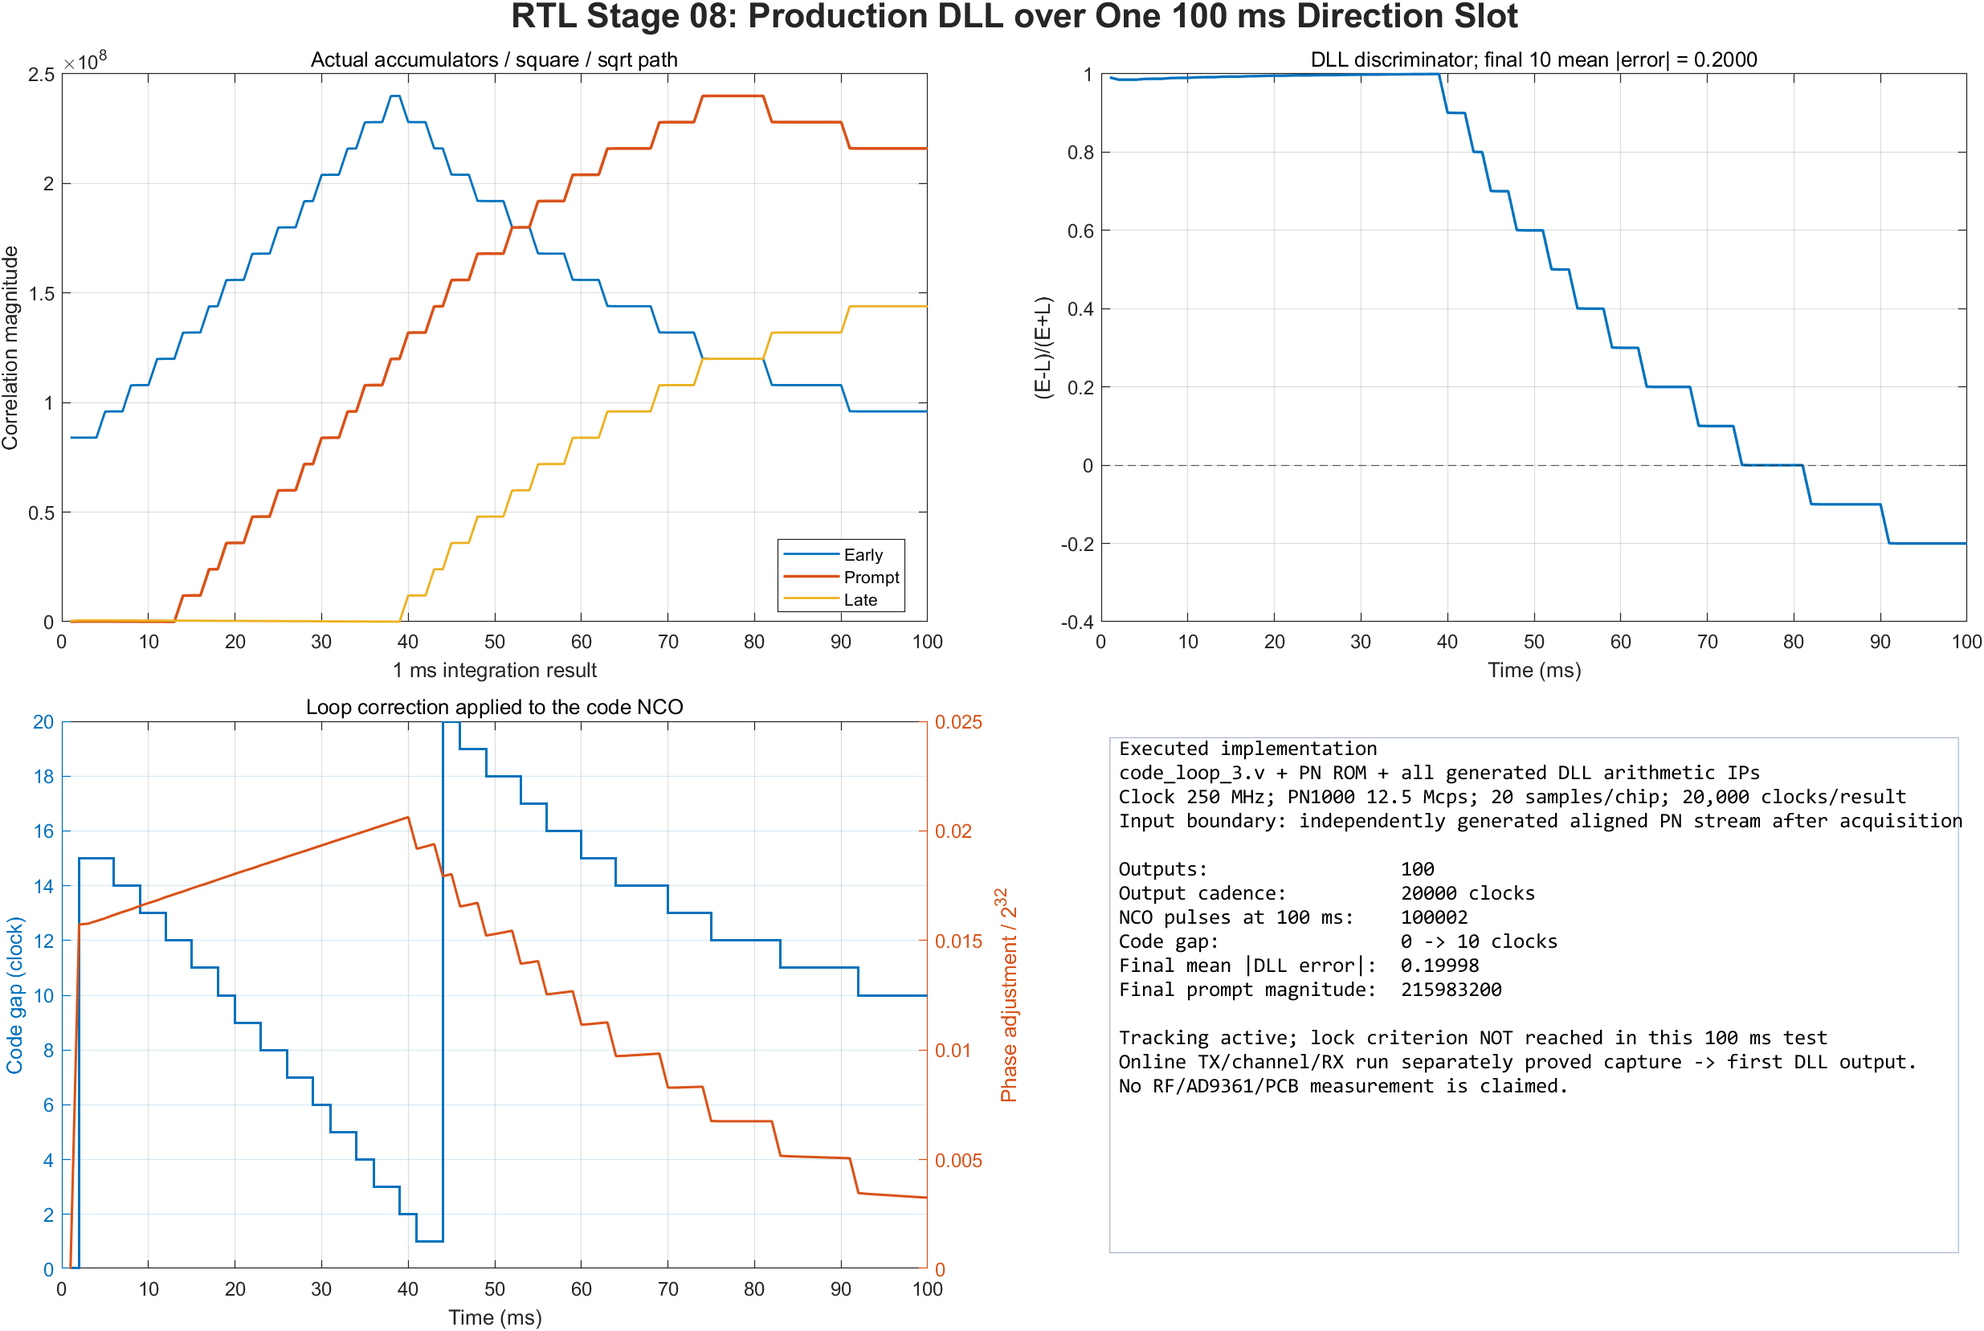
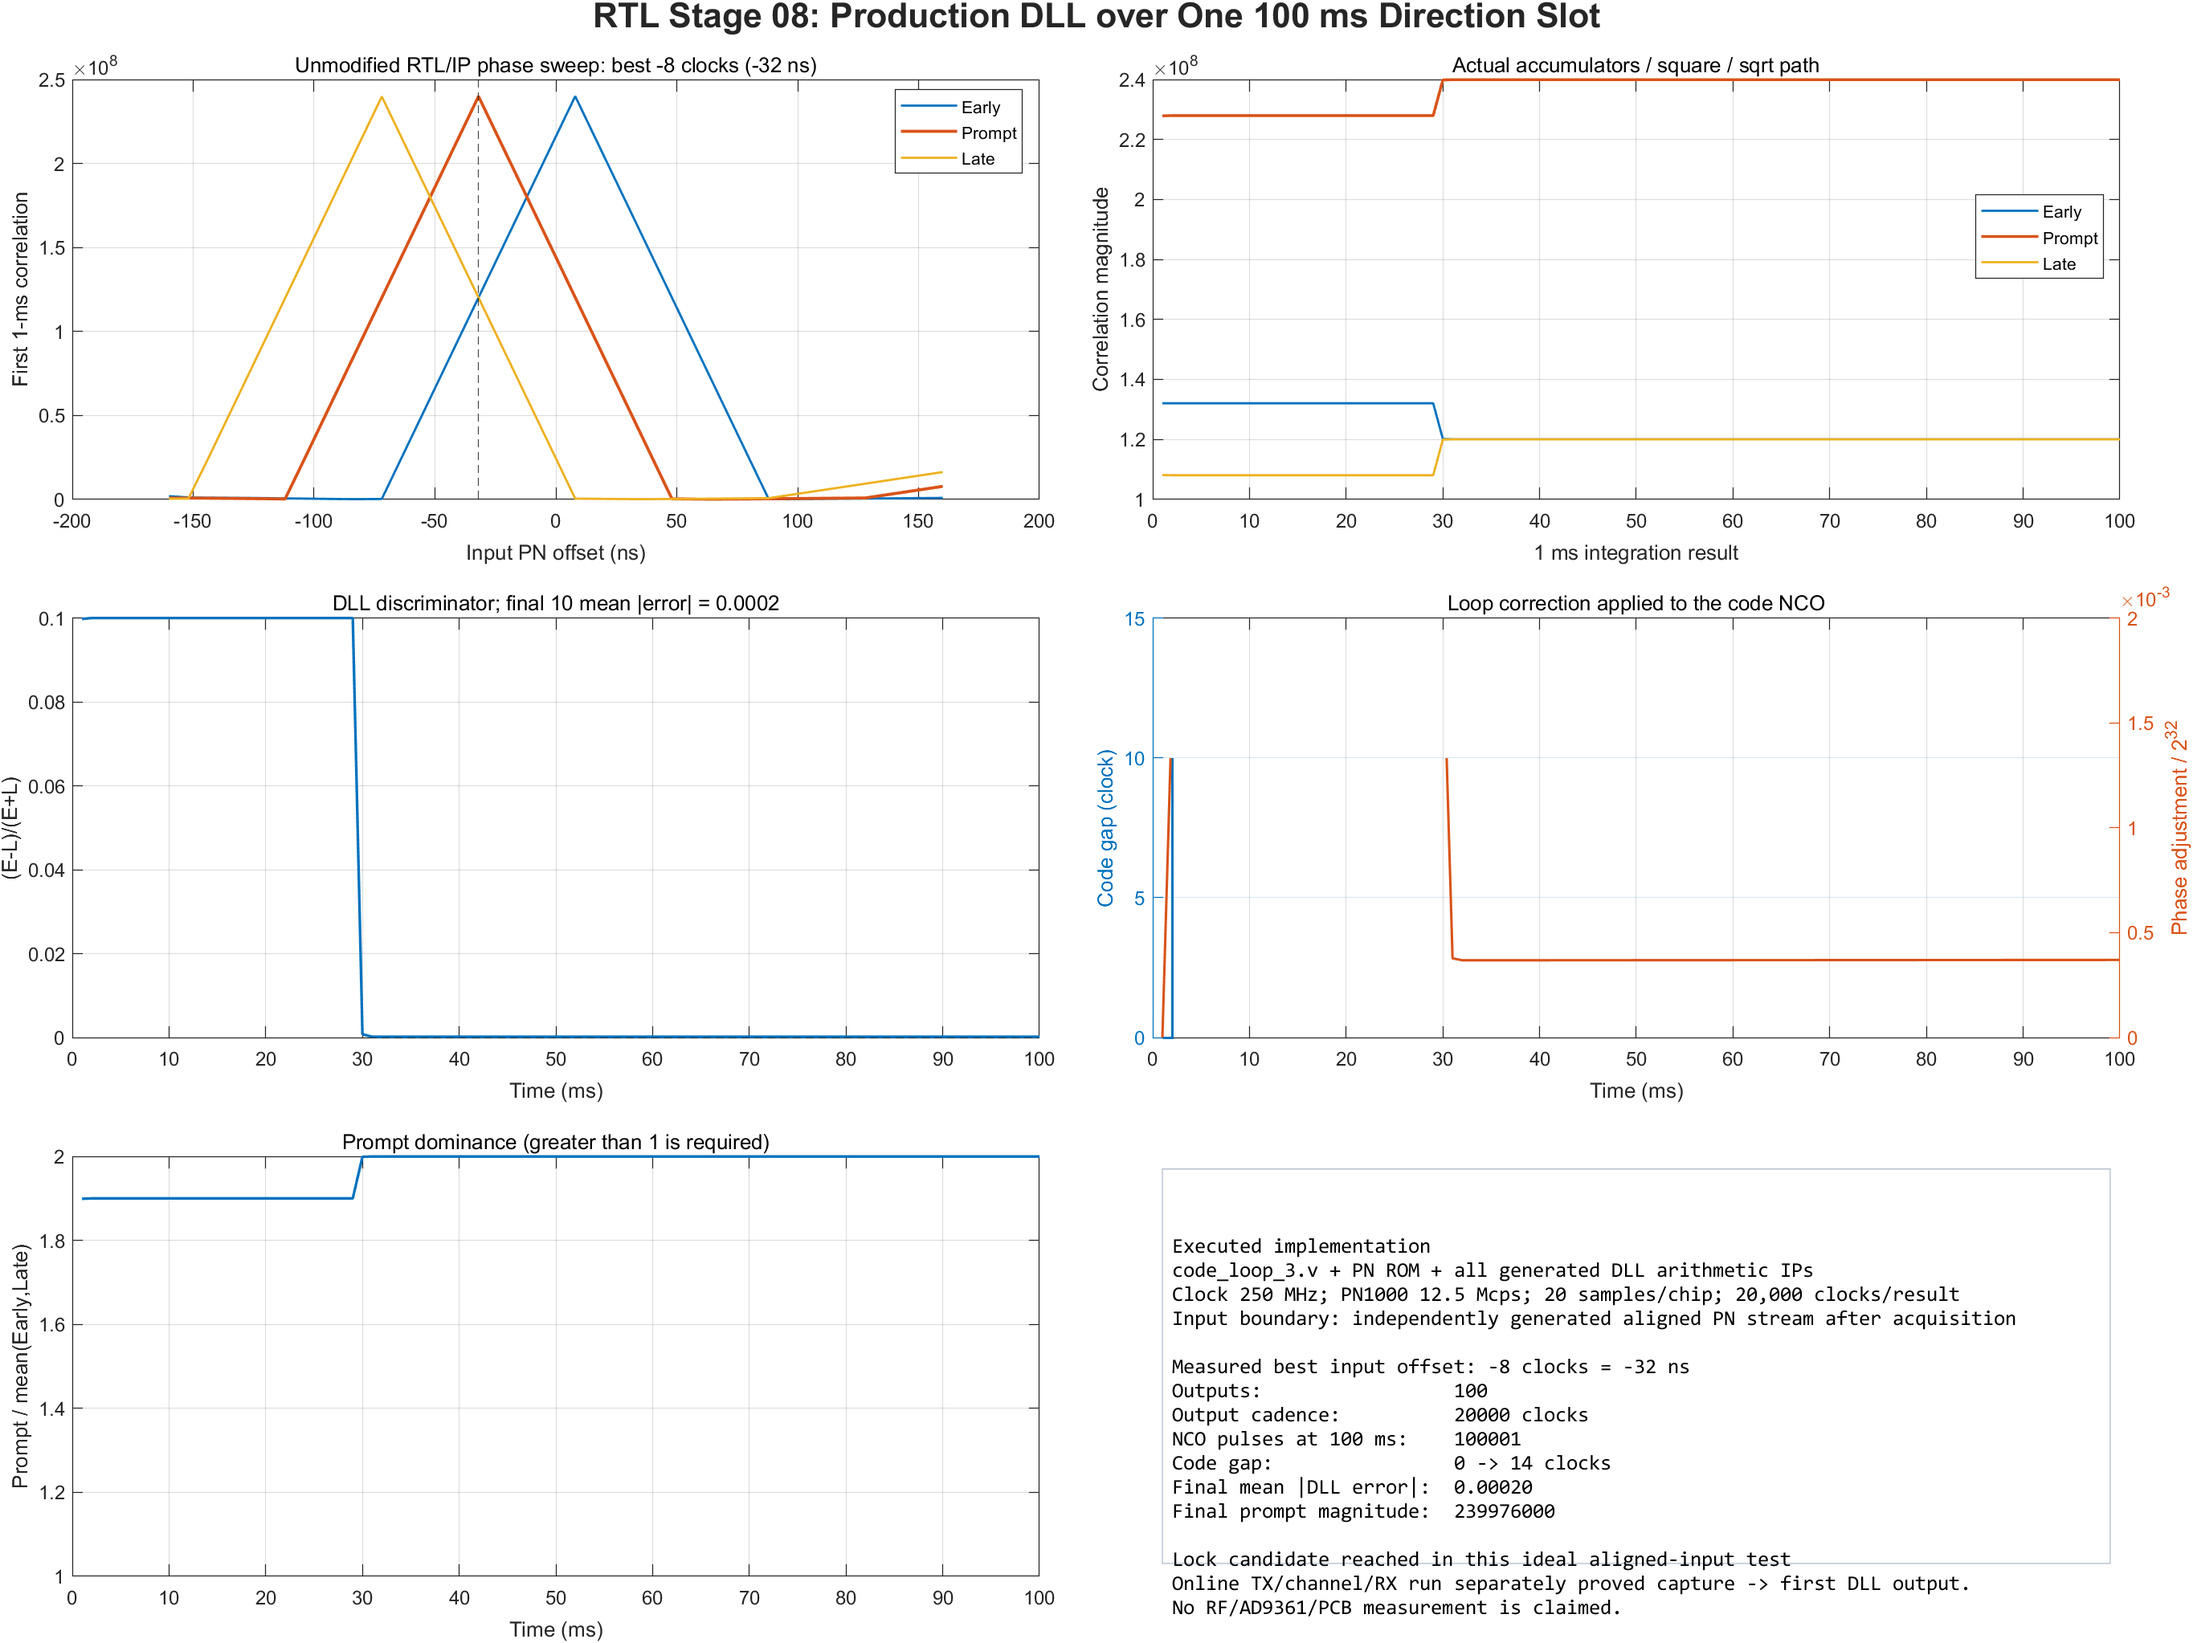
Update DSSS simulation gallery 2026-10-10

diff --git a/catalog.html b/catalog.html
@@ -399,10 +399,10 @@ img{width:100%;height:240px;object-fit:contain;background:#f8fafc}h3{font-size:1
 <li><a href="modules.html#script_migration">25 四阶段迁移与模型驱动交付</a>：登记的新图对应模块；场景及信号说明见图注</li>
 </ul><details class="panel-note"><summary>这张图从哪里取数 / 如何阅读</summary><p>已按登记信息关联模块；具体场景及信号说明：4000点50MSPS功能信道接收向量依次进入真实complex_interp5、ddc_hb_filter/FIR Compiler、rx_deci和fft_cap_3/FFT/IFFT相关IP。两次独立复位捕获位置均为929，峰值4171060和3586932，每轮FFT/IFFT配置各握手一次，插值节拍错误0；输入不是AD9361或PCB实测。</p>
 </details></article>
-<article data-era="current" data-modules="ad_dll script_migration"><span class="badge">真实RTL/IP：100 ms运行PASS；锁定判据未达标</span><h3>09_阶段08_真实DLL_100ms跟踪与收敛.png</h3><a href="08_MATLAB_Simulink_RTL%E5%AF%B9%E7%85%A7/09_%E9%98%B6%E6%AE%B508_%E7%9C%9F%E5%AE%9EDLL_100ms%E8%B7%9F%E8%B8%AA%E4%B8%8E%E6%94%B6%E6%95%9B.png" target="_blank"><img loading="lazy" src="08_MATLAB_Simulink_RTL%E5%AF%B9%E7%85%A7/09_%E9%98%B6%E6%AE%B508_%E7%9C%9F%E5%AE%9EDLL_100ms%E8%B7%9F%E8%B8%AA%E4%B8%8E%E6%94%B6%E6%95%9B.png" alt="09_阶段08_真实DLL_100ms跟踪与收敛.png"></a><p>真实code_loop_3及生成的PN ROM、累加/平方/开方/除法/环路滤波/NCO IP完成100 ms、100次积分，节拍严格为20000个250MHz时钟；末10 ms平均归一化鉴相误差0.2000，未达到0.05候选锁定判据。输入是独立生成的理想对齐PN流；全链在线诊断另已到达首个DLL输出，不属于AD9361/PCB实测。</p><p><strong>对应模块 / 图源：</strong></p><ul class="module-links">
+<article data-era="current" data-modules="ad_dll script_migration"><span class="badge">真实RTL/IP：100 ms锁定PASS；端到端交接待验收</span><h3>09_阶段08_真实DLL_100ms跟踪与收敛.png</h3><a href="08_MATLAB_Simulink_RTL%E5%AF%B9%E7%85%A7/09_%E9%98%B6%E6%AE%B508_%E7%9C%9F%E5%AE%9EDLL_100ms%E8%B7%9F%E8%B8%AA%E4%B8%8E%E6%94%B6%E6%95%9B.png" target="_blank"><img loading="lazy" src="08_MATLAB_Simulink_RTL%E5%AF%B9%E7%85%A7/09_%E9%98%B6%E6%AE%B508_%E7%9C%9F%E5%AE%9EDLL_100ms%E8%B7%9F%E8%B8%AA%E4%B8%8E%E6%94%B6%E6%95%9B.png" alt="09_阶段08_真实DLL_100ms跟踪与收敛.png"></a><p>真实code_loop_3及全部生成IP完成-160 ns至+160 ns输入相位扫描，测得最佳交接点-8个250MHz时钟（-32 ns），Prompt=2.40024e8且Early=Late=1.20144e8。原测试边界+14拍偏差22拍（88 ns）；改用实测交接点后完成100 ms、100次积分，末10 ms平均归一化误差0.0002，Prompt/Early/Late均值为2.39976e8/1.20024e8/1.19976e8。在线全链已到首个DLL输出，07→08端到端相位交接仍需单独验收；不是AD9361/PCB实测。</p><p><strong>对应模块 / 图源：</strong></p><ul class="module-links">
 <li><a href="modules.html#ad_dll">04 接收同步：FFT捕获、DLL与DSSS解扩</a>：登记的新图对应模块；场景及信号说明见图注</li>
 <li><a href="modules.html#script_migration">25 四阶段迁移与模型驱动交付</a>：登记的新图对应模块；场景及信号说明见图注</li>
-</ul><details class="panel-note"><summary>这张图从哪里取数 / 如何阅读</summary><p>已按登记信息关联模块；具体场景及信号说明：真实code_loop_3及生成的PN ROM、累加/平方/开方/除法/环路滤波/NCO IP完成100 ms、100次积分，节拍严格为20000个250MHz时钟；末10 ms平均归一化鉴相误差0.2000，未达到0.05候选锁定判据。输入是独立生成的理想对齐PN流；全链在线诊断另已到达首个DLL输出，不属于AD9361/PCB实测。</p>
+</ul><details class="panel-note"><summary>这张图从哪里取数 / 如何阅读</summary><p>已按登记信息关联模块；具体场景及信号说明：真实code_loop_3及全部生成IP完成-160 ns至+160 ns输入相位扫描，测得最佳交接点-8个250MHz时钟（-32 ns），Prompt=2.40024e8且Early=Late=1.20144e8。原测试边界+14拍偏差22拍（88 ns）；改用实测交接点后完成100 ms、100次积分，末10 ms平均归一化误差0.0002，Prompt/Early/Late均值为2.39976e8/1.20024e8/1.19976e8。在线全链已到首个DLL输出，07→08端到端相位交接仍需单独验收；不是AD9361/PCB实测。</p>
 </details></article>
 </div></section>
 <section data-category="9" id="c9"><h2>09_无线性能与鲁棒性</h2><p class="note">当前MATLAB可视化参数探索：自定义FIR、Costas、码率与信道；与历史旧方案场景分开。功能探索不等于真实RTL或70km无线性能验收。</p><div class="grid">

diff --git a/modules.html b/modules.html
@@ -889,6 +889,6 @@ hilite_system(&#x27;dsss_wireless_link/Costas_I_Q&#x27;,&#x27;find&#x27;);</pre>
 </details>
 <details><summary>08_阶段07_RX前端_FIR_FFT相关捕获.png</summary><p>已按登记信息关联模块；具体场景及信号说明：4000点50MSPS功能信道接收向量依次进入真实complex_interp5、ddc_hb_filter/FIR Compiler、rx_deci和fft_cap_3/FFT/IFFT相关IP。两次独立复位捕获位置均为929，峰值4171060和3586932，每轮FFT/IFFT配置各握手一次，插值节拍错误0；输入不是AD9361或PCB实测。</p>
 </details>
-<details><summary>09_阶段08_真实DLL_100ms跟踪与收敛.png</summary><p>已按登记信息关联模块；具体场景及信号说明：真实code_loop_3及生成的PN ROM、累加/平方/开方/除法/环路滤波/NCO IP完成100 ms、100次积分，节拍严格为20000个250MHz时钟；末10 ms平均归一化鉴相误差0.2000，未达到0.05候选锁定判据。输入是独立生成的理想对齐PN流；全链在线诊断另已到达首个DLL输出，不属于AD9361/PCB实测。</p>
+<details><summary>09_阶段08_真实DLL_100ms跟踪与收敛.png</summary><p>已按登记信息关联模块；具体场景及信号说明：真实code_loop_3及全部生成IP完成-160 ns至+160 ns输入相位扫描，测得最佳交接点-8个250MHz时钟（-32 ns），Prompt=2.40024e8且Early=Late=1.20144e8。原测试边界+14拍偏差22拍（88 ns）；改用实测交接点后完成100 ms、100次积分，末10 ms平均归一化误差0.0002，Prompt/Early/Late均值为2.39976e8/1.20024e8/1.19976e8。在线全链已到首个DLL输出，07→08端到端相位交接仍需单独验收；不是AD9361/PCB实测。</p>
 </details>
 <script>document.querySelectorAll('[data-diagram][data-zoom]').forEach(button=>button.addEventListener('click',()=>{const image=document.getElementById('image-'+button.dataset.diagram);image.style.width=(100*Number(button.dataset.zoom))+'%';}));</script></main></html>
